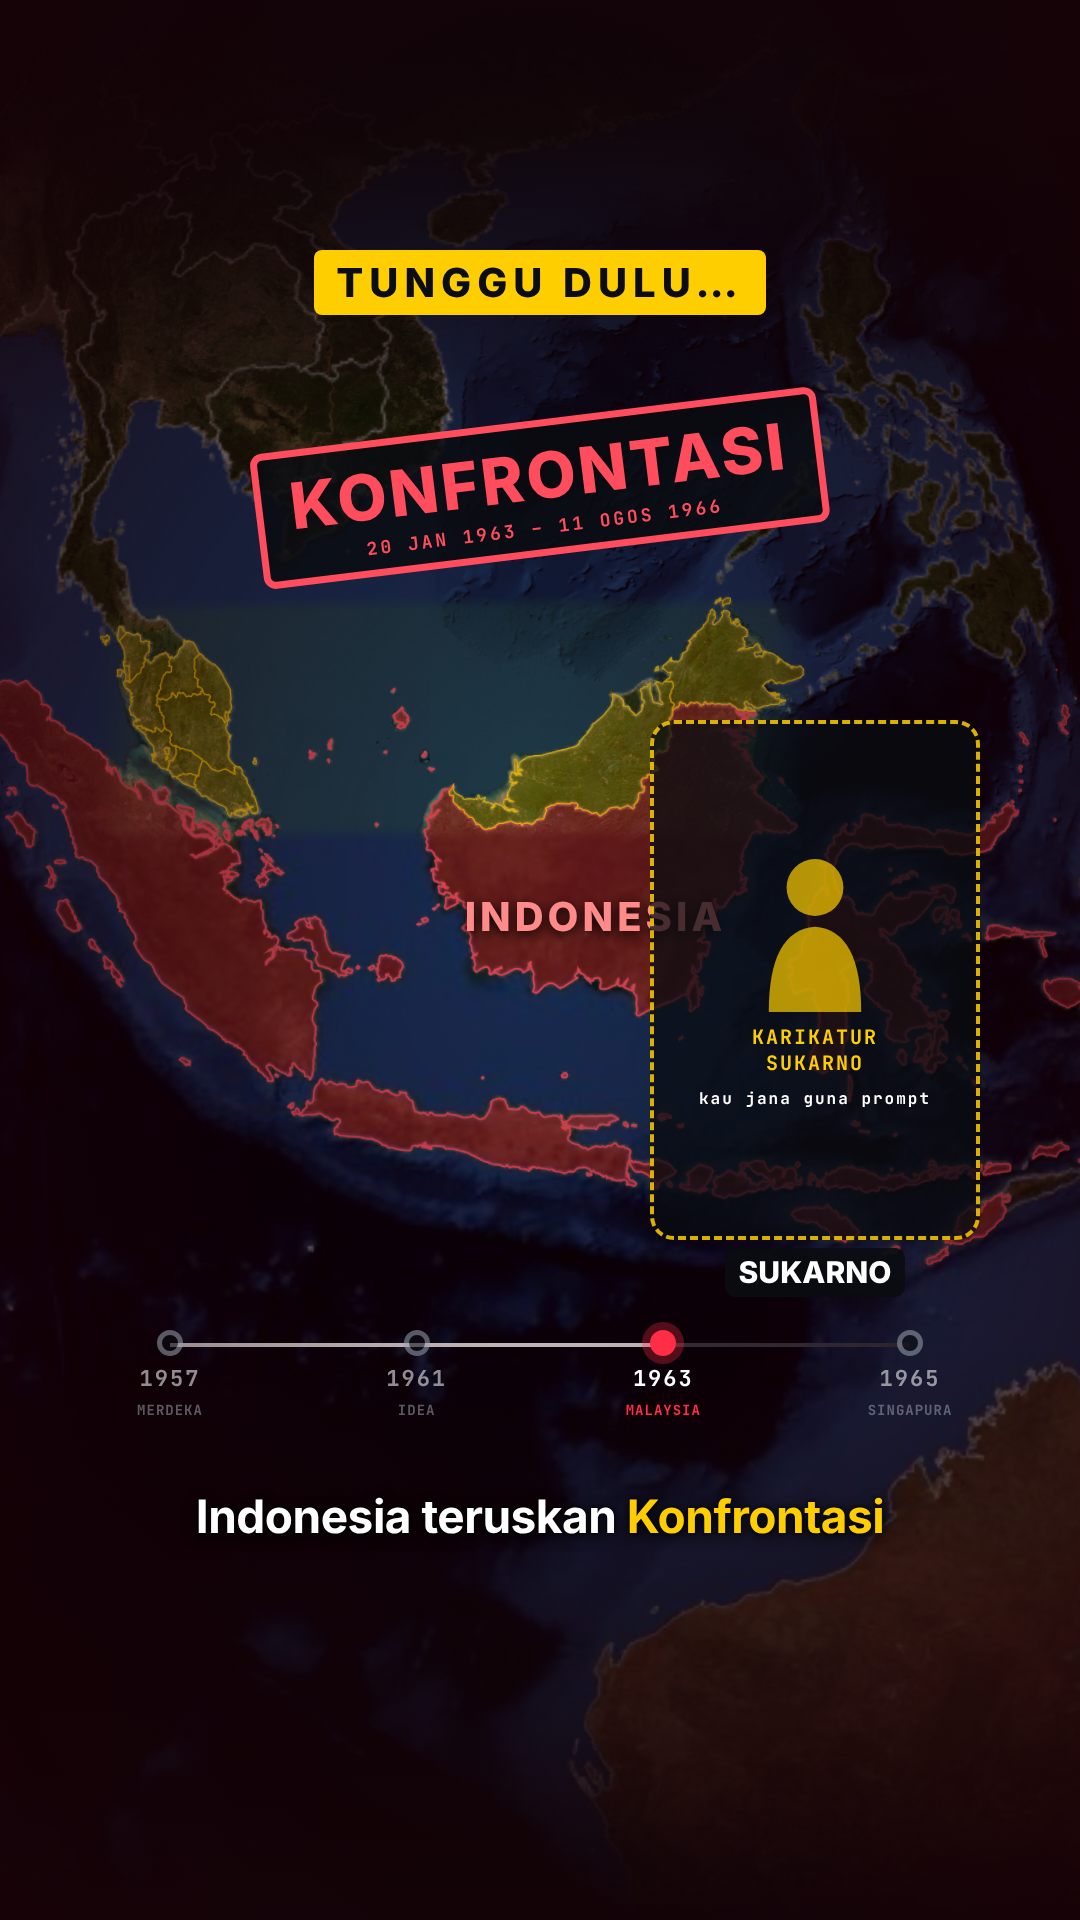
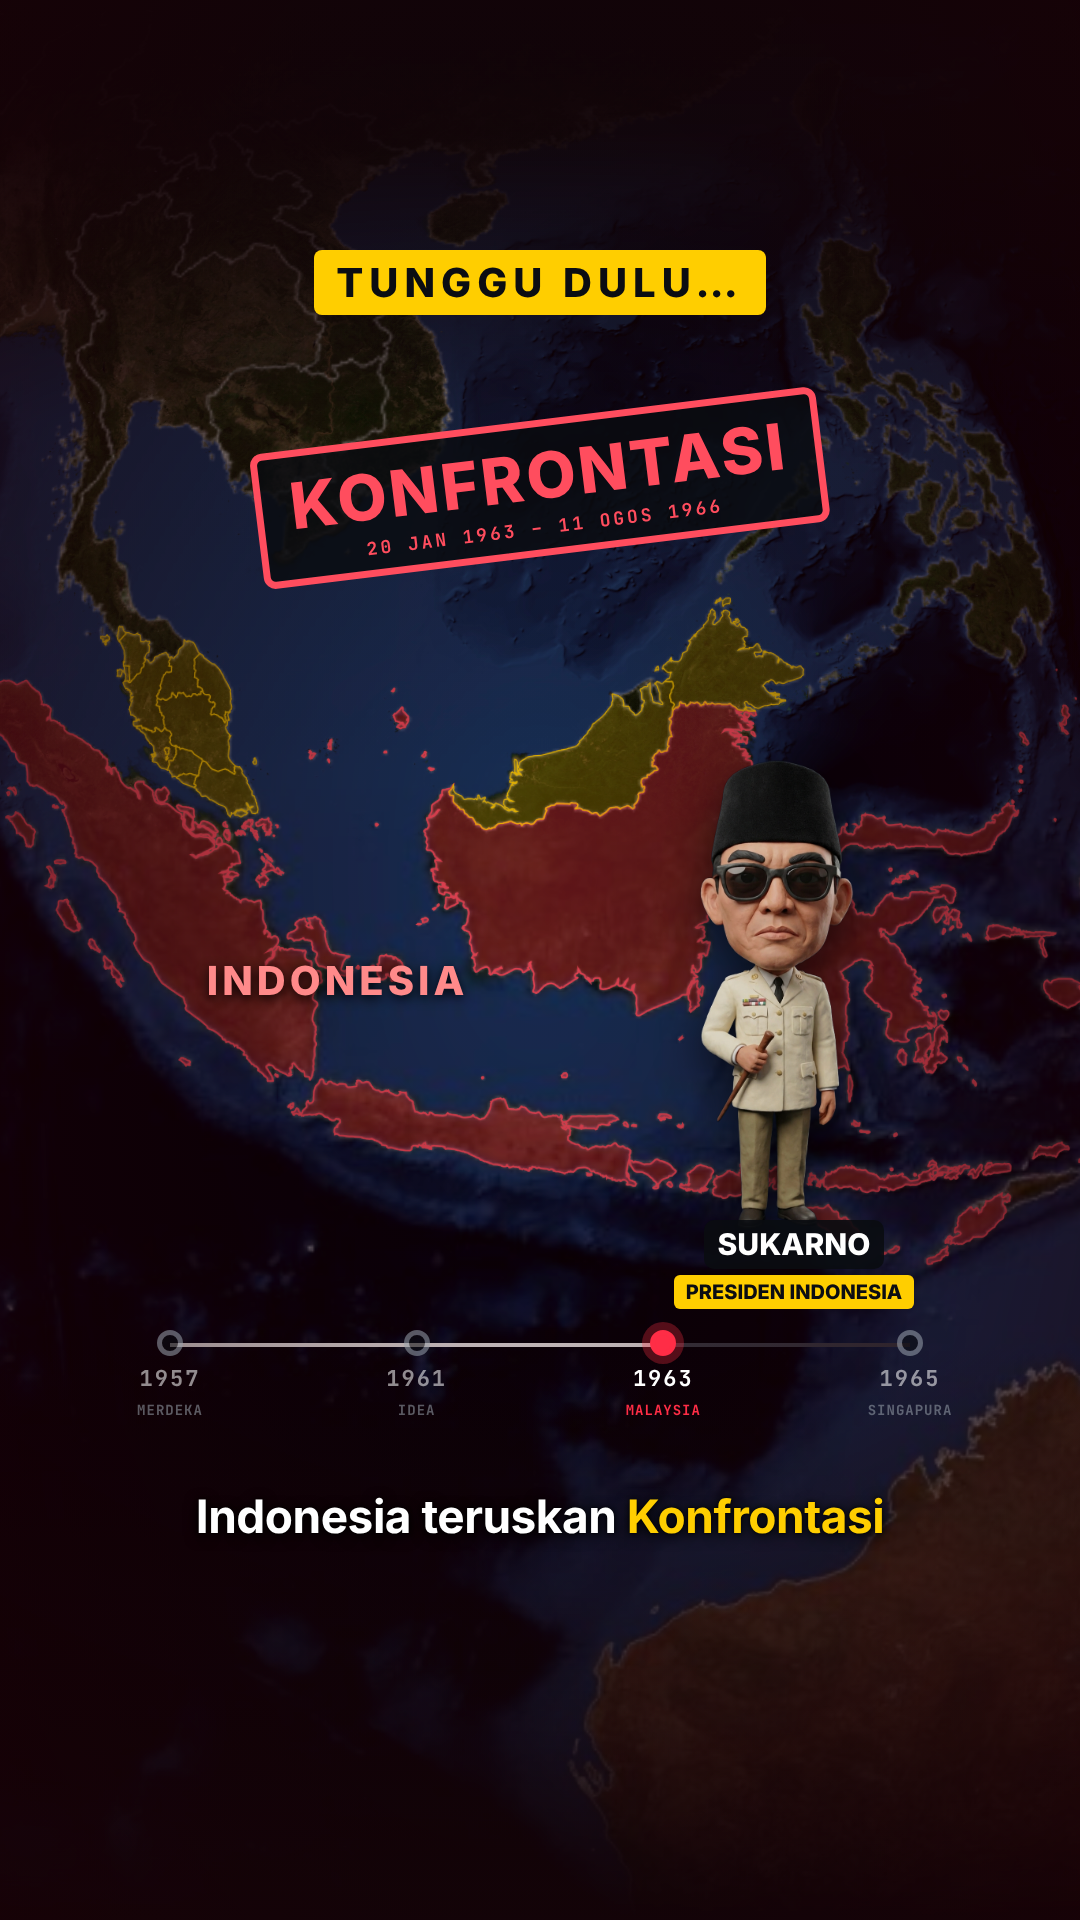
merdeka-malaysia-video: Sukarno + Lee Kuan Yew caricatures (cut out) in storyboard
Claude-Session: https://claude.ai/code/session_01GRVCpVLeEipRvyW43UFZDP

diff --git a/merdeka-malaysia-video/boards/storyboard.html b/merdeka-malaysia-video/boards/storyboard.html
@@ -19,4 +19,4 @@ h1{font:800 46px Inter;letter-spacing:-1px}h1 span{color:#ffce00}
 </style></head><body>
 <h1>PEMBENTUKAN MALAYSIA: <span>31 OGOS ATAU 16 SEPT?</span></h1>
 <div class="meta">MAP ANIMATION · 1080×1920 · ≈57 s · open loop "hilang satu negeri" + re-hook Konfrontasi · karikatur Tunku, Sukarno, Lee Kuan Yew · foto: Arkib Negara (Wikimedia Commons) · fakta: Wikipedia</div>
-<div class="grid"><div class="f"><img src="frame-01.png"><div><div class="n">01 · 0:00</div><div class="t">Hook + open loop</div><div class="vo">"Setiap tahun kita sambut Merdeka, 31 Ogos. Tapi tahu tak, masa tu Malaysia belum wujud pun! Dan dua tahun lepas lahir, ia hilang satu negeri."</div><div class="fx">Semenanjung menyala emas, tarikh besar <b>31 OGOS 1957</b>, cop merah <b>MALAYSIA BELUM WUJUD?</b></div></div></div><div class="f"><img src="frame-02.png"><div><div class="n">02 · 0:07</div><div class="t">1957</div><div class="vo">"Tahun 1957, yang merdeka ialah Persekutuan Tanah Melayu."</div><div class="fx"><b>Foto sebenar Stadium Merdeka 1957</b> (Arkib Negara, domain awam) + kad <b>Persekutuan Tanah Melayu</b>. Garis masa 1957.</div></div></div><div class="f"><img src="frame-03.png"><div><div class="n">03 · 0:11</div><div class="t">Mei 1961: idea Tunku</div><div class="vo">"Mei 1961, Tunku Abdul Rahman umumkan idea gabungan besar: Tanah Melayu, Singapura, Sabah, Sarawak, dan Brunei."</div><div class="fx">Peta luas, <b>5 wilayah menyala satu-satu</b> ikut sebutan. <b>Karikatur Tunku</b> jatuh masuk + melantun.</div></div></div><div class="f"><img src="frame-04.png"><div><div class="n">04 · 0:19</div><div class="t">Cobbold</div><div class="vo">"Suruhanjaya Cobbold turun ke Borneo, tanya pendapat rakyat."</div><div class="fx">Zoom ke Borneo, Sarawak & Borneo Utara menyala, kad <b>Suruhanjaya Cobbold 1962</b> + ikon orang muncul satu-satu.</div></div></div><div class="f"><img src="frame-05.png"><div><div class="n">05 · 0:23</div><div class="t">London 1963</div><div class="vo">"9 Julai 1963, Perjanjian Malaysia ditandatangani di London. Tapi Brunei, tak tandatangan."</div><div class="fx">Terbang ke London, dokumen <b>Perjanjian Malaysia</b>: ✓ ditanda satu-satu, Brunei ✗ + cop <b>BRUNEI TARIK DIRI</b>.</div></div></div><div class="f"><img src="frame-06.png"><div><div class="n">06 · 0:30</div><div class="t">31 Ogos 1963 batal</div><div class="vo">"Malaysia sepatutnya lahir 31 Ogos 1963. Tapi Indonesia dan Filipina bantah, dan PBB turun tinjau dulu."</div><div class="fx">Kalendar <b>31 OGOS 1963</b> dipangkah merah. Indonesia & Filipina jadi merah. Kad <b>PBB: 4,000 ditemu bual</b>.</div></div></div><div class="f"><img src="frame-07.png"><div><div class="n">07 · 0:37</div><div class="t">16 Sept 1963</div><div class="vo">"Akhirnya, 16 September 1963, Malaysia lahir."</div><div class="fx">Empat wilayah menyala emas serentak, tarikh besar <b>16 SEPT 1963</b>, teks <b>Pemasyhuran Malaysia</b>.</div></div></div><div class="f"><img src="frame-08.png"><div><div class="n">08 · 0:41</div><div class="t">Re-hook: Konfrontasi</div><div class="vo">"Tapi tunggu dulu! Indonesia teruskan Konfrontasi, sampai 1966."</div><div class="fx"><b>Flash, muzik berhenti</b>, skrin merah. Cop <b>KONFRONTASI 1963–1966</b> + <b>karikatur Sukarno</b> (perlu dijana).</div></div></div><div class="f"><img src="frame-09.png"><div><div class="n">09 · 0:46</div><div class="t">Singapura keluar</div><div class="vo">"Dan 9 Ogos 1965, Singapura berpisah dari Malaysia."</div><div class="fx">Zoom ke Singapura, ia padam jadi kelabu. Cop <b>BERPISAH 9 OGOS 1965</b>, jawapan open loop. <b>Karikatur Lee Kuan Yew</b> (perlu dijana).</div></div></div><div class="f"><img src="frame-10.png"><div><div class="n">10 · 0:51</div><div class="t">Isu komen</div><div class="vo">"Hari ni, ramai di Sabah dan Sarawak kata, 16 September lah hari kebangsaan sebenar. Kau setuju? 31 Ogos, atau 16 September? Komen kat bawah!"</div><div class="fx">Dua kad besar <b>31 OGOS vs 16 SEPT</b>, gaya undian, dan <b>KOMEN ↓</b>.</div></div></div></div></body></html>
+<div class="grid"><div class="f"><img src="frame-01.png"><div><div class="n">01 · 0:00</div><div class="t">Hook + open loop</div><div class="vo">"Setiap tahun kita sambut Merdeka, 31 Ogos. Tapi tahu tak, masa tu Malaysia belum wujud pun! Dan dua tahun lepas lahir, ia hilang satu negeri."</div><div class="fx">Semenanjung menyala emas, tarikh besar <b>31 OGOS 1957</b>, cop merah <b>MALAYSIA BELUM WUJUD?</b></div></div></div><div class="f"><img src="frame-02.png"><div><div class="n">02 · 0:07</div><div class="t">1957</div><div class="vo">"Tahun 1957, yang merdeka ialah Persekutuan Tanah Melayu."</div><div class="fx"><b>Foto sebenar Stadium Merdeka 1957</b> (Arkib Negara, domain awam) + kad <b>Persekutuan Tanah Melayu</b>. Garis masa 1957.</div></div></div><div class="f"><img src="frame-03.png"><div><div class="n">03 · 0:11</div><div class="t">Mei 1961: idea Tunku</div><div class="vo">"Mei 1961, Tunku Abdul Rahman umumkan idea gabungan besar: Tanah Melayu, Singapura, Sabah, Sarawak, dan Brunei."</div><div class="fx">Peta luas, <b>5 wilayah menyala satu-satu</b> ikut sebutan. <b>Karikatur Tunku</b> jatuh masuk + melantun.</div></div></div><div class="f"><img src="frame-04.png"><div><div class="n">04 · 0:19</div><div class="t">Cobbold</div><div class="vo">"Suruhanjaya Cobbold turun ke Borneo, tanya pendapat rakyat."</div><div class="fx">Zoom ke Borneo, Sarawak & Borneo Utara menyala, kad <b>Suruhanjaya Cobbold 1962</b> + ikon orang muncul satu-satu.</div></div></div><div class="f"><img src="frame-05.png"><div><div class="n">05 · 0:23</div><div class="t">London 1963</div><div class="vo">"9 Julai 1963, Perjanjian Malaysia ditandatangani di London. Tapi Brunei, tak tandatangan."</div><div class="fx">Terbang ke London, dokumen <b>Perjanjian Malaysia</b>: ✓ ditanda satu-satu, Brunei ✗ + cop <b>BRUNEI TARIK DIRI</b>.</div></div></div><div class="f"><img src="frame-06.png"><div><div class="n">06 · 0:30</div><div class="t">31 Ogos 1963 batal</div><div class="vo">"Malaysia sepatutnya lahir 31 Ogos 1963. Tapi Indonesia dan Filipina bantah, dan PBB turun tinjau dulu."</div><div class="fx">Kalendar <b>31 OGOS 1963</b> dipangkah merah. Indonesia & Filipina jadi merah. Kad <b>PBB: 4,000 ditemu bual</b>.</div></div></div><div class="f"><img src="frame-07.png"><div><div class="n">07 · 0:37</div><div class="t">16 Sept 1963</div><div class="vo">"Akhirnya, 16 September 1963, Malaysia lahir."</div><div class="fx">Empat wilayah menyala emas serentak, tarikh besar <b>16 SEPT 1963</b>, teks <b>Pemasyhuran Malaysia</b>.</div></div></div><div class="f"><img src="frame-08.png"><div><div class="n">08 · 0:41</div><div class="t">Re-hook: Konfrontasi</div><div class="vo">"Tapi tunggu dulu! Indonesia teruskan Konfrontasi, sampai 1966."</div><div class="fx"><b>Flash, muzik berhenti</b>, skrin merah. Cop <b>KONFRONTASI 1963–1966</b> + <b>karikatur Sukarno</b> jatuh masuk.</div></div></div><div class="f"><img src="frame-09.png"><div><div class="n">09 · 0:46</div><div class="t">Singapura keluar</div><div class="vo">"Dan 9 Ogos 1965, Singapura berpisah dari Malaysia."</div><div class="fx">Zoom ke Singapura, ia padam jadi kelabu. Cop <b>BERPISAH 9 OGOS 1965</b>, jawapan open loop. <b>Karikatur Lee Kuan Yew</b> jatuh masuk.</div></div></div><div class="f"><img src="frame-10.png"><div><div class="n">10 · 0:51</div><div class="t">Isu komen</div><div class="vo">"Hari ni, ramai di Sabah dan Sarawak kata, 16 September lah hari kebangsaan sebenar. Kau setuju? 31 Ogos, atau 16 September? Komen kat bawah!"</div><div class="fx">Dua kad besar <b>31 OGOS vs 16 SEPT</b>, gaya undian, dan <b>KOMEN ↓</b>.</div></div></div></div></body></html>

diff --git a/merdeka-malaysia-video/boards/frame.html b/merdeka-malaysia-video/boards/frame.html
@@ -287,7 +287,7 @@ const TL = [["1957", "MERDEKA"], ["1961", "IDEA"], ["1963", "MALAYSIA"], ["1965"
 const timeline = (on) => html(`<div class="tl4">${TL.map(([d, s], i) => `<div class="tn ${i === on ? "now done" : ""}" style="opacity:${i === on ? 1 : 0.55}"><b></b><i>${d}</i><u>${s}</u></div>`).join("")}<div class="tbar"><div style="width:${on / 3 * 100}%"></div></div></div>`);
 const PEN = { lat: 4.0, lon: 102.0, dist: 0.32, tilt: 8, yShift: 0.1 };
 const WIDE = { lat: 3.6, lon: 109.2, dist: 1.6, tilt: 8, yShift: 0.08 };
-const P = { merdeka: "pengisytiharan-1957.jpg" };
+const P = { merdeka: "pengisytiharan-1957.jpg", sukarno: "sukarno-fig.png", lky: "lky-fig.png" };
 const FR = {
   1() { g.setView(PEN); fill(MALAYA, ...GOLD); credit(); label([4.3, 101.9], "TANAH MELAYU", 34, "#ffce00");
     html(`<div class="dt" style="top:230px"><div class="k">MERDEKA!</div><div class="n" style="font-size:150px">31 OGOS</div><div class="y">1957</div></div>`);
@@ -327,15 +327,15 @@ const FR = {
   8() { g.setView({ ...WIDE, lat: 1.5, lon: 112, dist: 1.7 }); timeline(2); fill(IDN, ...RED); fill([...MALAYA, ...SABAH, ...SARAWAK, ...SGP], "rgba(255,206,0,.25)", "#ffce00", 2);
     html(`<div style="position:absolute;inset:0;background:radial-gradient(ellipse at 50% 45%,rgba(60,0,10,.1),rgba(30,0,5,.7))"></div>`);
     html(`<div style="position:absolute;top:250px;left:0;right:0;text-align:center"><span style="display:inline-block;font:800 40px Inter;letter-spacing:6px;color:#0b0d12;background:#ffce00;padding:8px 22px;border-radius:8px">TUNGGU DULU…</span></div>`);
-    label([-1.5, 113.5], "INDONESIA", 40, "#ff8a8a");
+    label([-3.2, 106.5], "INDONESIA", 40, "#ff8a8a");
     html(`<div class="stamp2 red" style="top:420px;font-size:64px">KONFRONTASI<small>20 JAN 1963 – 11 OGOS 1966</small></div>`);
-    P.sukarno ? fig(640, 760, 470, P.sukarno, "SUKARNO", "PRESIDEN INDONESIA", true) : ph(650, 720, 330, 520, "SUKARNO", "kau jana guna prompt");
+    P.sukarno ? fig(700, 760, 470, P.sukarno, "SUKARNO", "PRESIDEN INDONESIA", true) : ph(650, 720, 330, 520, "SUKARNO", "kau jana guna prompt");
     capB(`Indonesia teruskan <span class="r">Konfrontasi</span>`); },
   9() { g.setView({ lat: 1.42, lon: 103.8, dist: 0.06, tilt: 8, yShift: 0.12 }); credit(); timeline(3); fill(SGP, "rgba(160,160,170,.35)", "#ff4d5e", 5, { lon0: 103.4, lon1: 104.3, lat0: 1.1, lat1: 1.7, ppd: 2400 });
     label([1.25, 103.82], "SINGAPURA", 40, "#ff8a8a");
     html(`<div class="stamp2 red" style="top:280px;font-size:64px">BERPISAH<small>9 OGOS 1965</small></div>`);
     html(`<div class="ttl" style="top:470px"><div class="a">BARU 2 TAHUN</div><div class="b" style="font-size:72px">MALAYSIA <span>HILANG SATU</span></div></div>`);
-    P.lky ? fig(620, 800, 470, P.lky, "LEE KUAN YEW", "PERDANA MENTERI SINGAPURA", true) : ph(680, 860, 300, 440, "LEE KUAN YEW", "kau jana guna prompt");
+    P.lky ? fig(760, 820, 430, P.lky, "LEE KUAN YEW", "PERDANA MENTERI SINGAPURA", true) : ph(680, 860, 300, 440, "LEE KUAN YEW", "kau jana guna prompt");
     capB(`Singapura <span class="r">berpisah</span> dari Malaysia`); },
   10() { g.setView({ ...WIDE, dist: 1.7 }); fill([...MALAYA, ...SABAH, ...SARAWAK], "rgba(255,206,0,.25)", "#ffce00", 2);
     html(`<div style="position:absolute;inset:0;background:rgba(5,7,11,.55)"></div>`);
